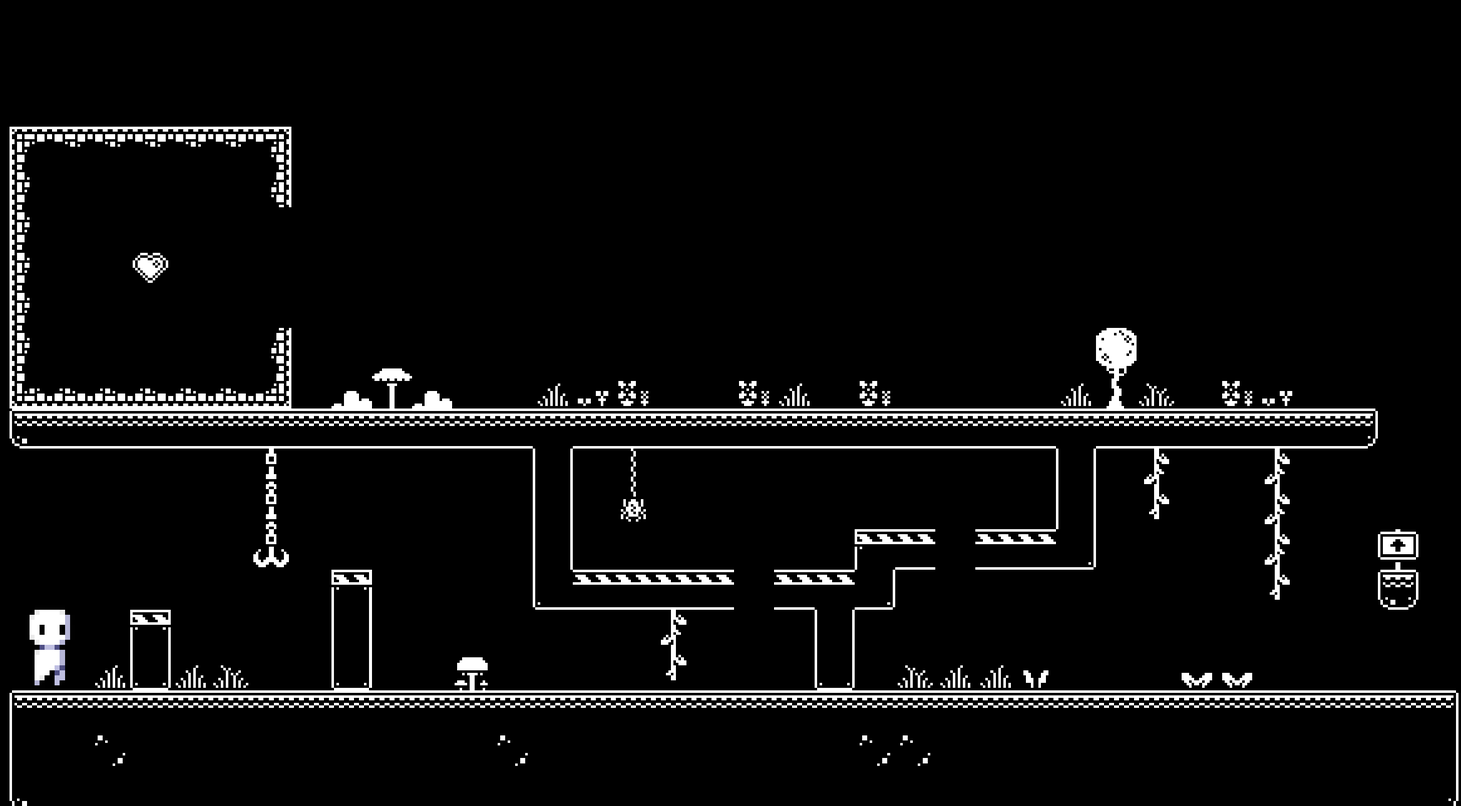
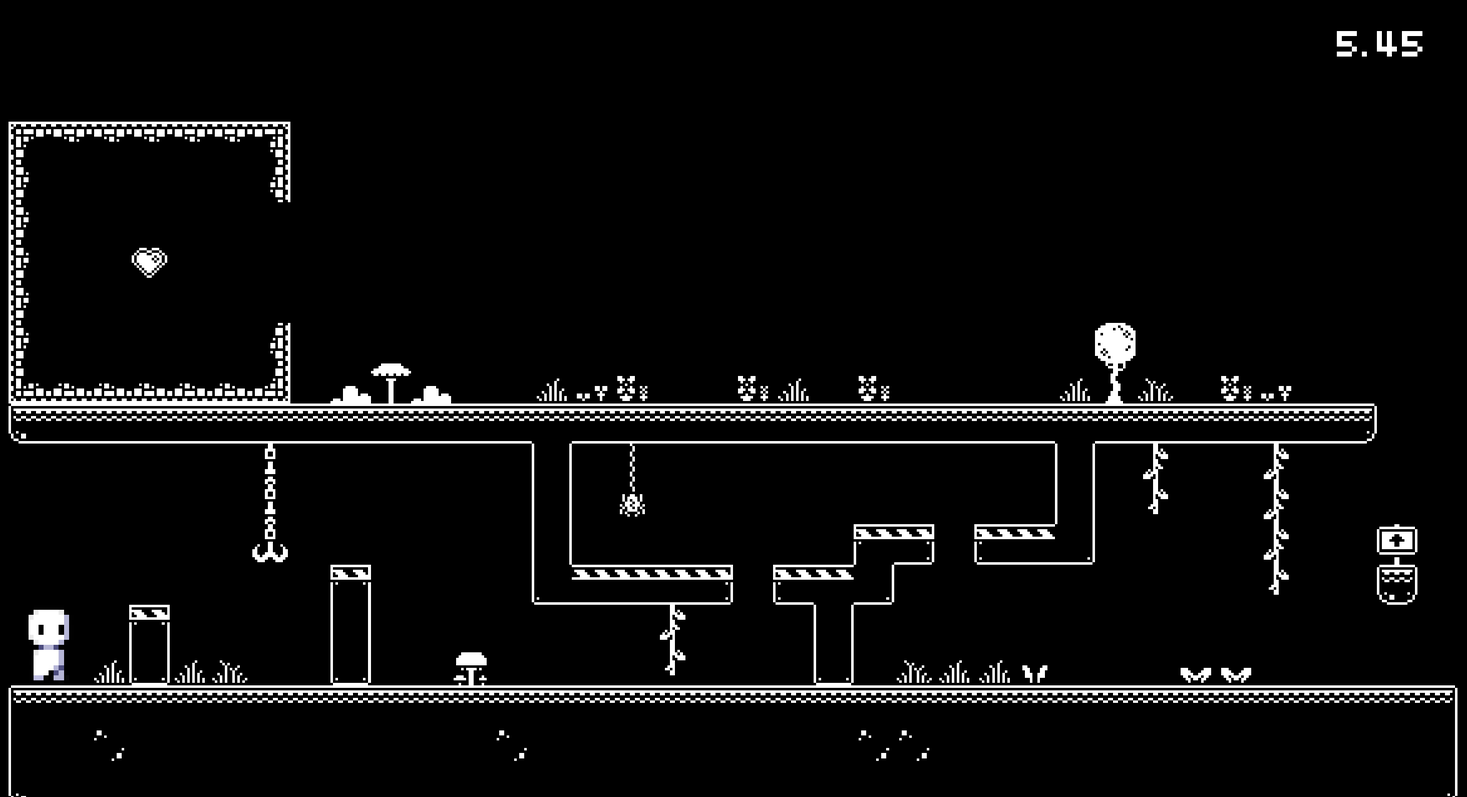
Add project document with minigame lead and audio documentation

diff --git a/ProjectDocument.md b/ProjectDocument.md
@@ -1,0 +1,318 @@
+# Green Reaper #
+
+## Summary ##
+
+**A paragraph-length pitch for your game.**
+
+## Project Resources
+
+[Web-playable version of your game.](https://itch.io/)  
+[Trailor](https://youtube.com)  
+[Press Kit](https://dopresskit.com/)  
+[Proposal: make your own copy of the linked doc.](https://docs.google.com/document/d/1qwWCpMwKJGOLQ-rRJt8G8zisCa2XHFhv6zSWars0eWM/edit?usp=sharing)  
+
+## Gameplay Explanation ##
+
+**In this section, explain how the game should be played. Treat this as a manual within a game. Explaining the button mappings and the most optimal gameplay strategy is encouraged.**
+
+
+**Add it here if you did work that should be factored into your grade but does not fit easily into the proscribed roles! Please include links to resources and descriptions of game-related material that does not fit into roles here.**
+
+# External Code, Ideas, and Structure #
+
+If your project contains code that: 1) your team did not write, and 2) does not fit cleanly into a role, please document it in this section. Please include the author of the code, where to find the code, and note which scripts, folders, or other files that comprise the external contribution. Additionally, include the license for the external code that permits you to use it. You do not need to include the license for code provided by the instruction team.
+
+If you used tutorials or other intellectual guidance to create aspects of your project, include reference to that information as well.
+
+[Godot 4 — An Overview of Control Nodes | Easy UI (Tutorial)](https://www.youtube.com/watch?v=KfydpMuTBvA)
+
+[Godot Control Node (UI) Masterclass](https://www.youtube.com/watch?v=5Hog6a0EYa0)
+
+# Main Roles #
+
+Your goal is to relate the work of your role and sub-role in terms of the content of the course. Please look at the role sections below for specific instructions for each role.
+
+Below is a template for you to highlight items of your work. These provide the evidence needed for your work to be evaluated. Try to have at least four such descriptions. They will be assessed on the quality of the underlying system and how they are linked to course content. 
+
+*Short Description* - Long description of your work item that includes how it is relevant to topics discussed in class. [link to evidence in your repository](https://github.com/dr-jam/ECS189L/edit/project-description/ProjectDocumentTemplate.md)
+
+Here is an example:  
+*Procedural Terrain* - The game's background consists of procedurally generated terrain produced with Perlin noise. The game can modify this terrain at run-time via a call to its script methods. The intent is to allow the player to modify the terrain. This system is based on the component design pattern and the procedural content generation portions of the course. [The PCG terrain generation script](https://github.com/dr-jam/CameraControlExercise/blob/513b927e87fc686fe627bf7d4ff6ff841cf34e9f/Obscura/Assets/Scripts/TerrainGenerator.cs#L6).
+
+You should replay any **bold text** with your relevant information. Liberally use the template when necessary and appropriate.
+
+## Minigame Lead (Christopher Phan)
+
+We had a shared [Google Sheets](https://docs.google.com/spreadsheets/d/12mCzZi8sv8D7Ga9r-oDEVJ3HBns_-IhfT880fozEuVY/edit?usp=sharing) that had a list of minigame ideas. Many of these changed during development. Most of the minigames from this list involved using a mouse and interacting with the game through a UI instead of through controlling a character. The minigames that I implemented kept the core functionality of the minigames in the list, but I decided to make the player interact with the game through controlling a character to make the experience feel more like a game. I felt that if a lot of the games just used the mouse and didn’t have a character, it would feel like an online quiz and wouldn’t be as fun. I didn’t get the chance to implement every game in the list, but I focused on implementing the ones that I felt would be the most engaging.
+
+### Minigame manager
+The [minigame manager](https://github.com/chris-phan/ecs179-final-project/blob/b67a9534f8ce1002b99159326979195c9940da21/green_reaper/scripts/minigame_manager.gd#L1) retrieves [all the relevant data](https://github.com/chris-phan/ecs179-final-project/blob/b67a9534f8ce1002b99159326979195c9940da21/green_reaper/scripts/minigame_manager.gd#L89) from the minigame. The UI scripts [pull](https://github.com/chris-phan/ecs179-final-project/blob/b67a9534f8ce1002b99159326979195c9940da21/green_reaper/scripts/minigame_result_ui.gd#L42) relevant data from the minigame manager and [displays](https://github.com/chris-phan/ecs179-final-project/blob/b67a9534f8ce1002b99159326979195c9940da21/green_reaper/scripts/minigame_ui.gd#L71) it dynamically. The minigame manager also handles switching between the instructions and wager screen to the actual minigame and finally from the minigame to the result screen through [signals](https://github.com/chris-phan/ecs179-final-project/blob/b67a9534f8ce1002b99159326979195c9940da21/green_reaper/scripts/minigame_manager.gd#L27). All the minigames are kept in a list and [shuffled](https://github.com/chris-phan/ecs179-final-project/blob/b67a9534f8ce1002b99159326979195c9940da21/green_reaper/scripts/minigame_manager.gd#L51). Minigames are popped off the list as they’re played. When all the minigames are played, the list is recreated and shuffled again. The minigame manager relies on the minigame to contain all the relevant information necessary for the UI to display. To do this, all minigames inherit from a Minigame superclass. Then, [polymorphism](https://github.com/chris-phan/ecs179-final-project/blob/b67a9534f8ce1002b99159326979195c9940da21/green_reaper/scripts/minigame_manager.gd#L104) is used to treat all the minigames the same.
+
+### Minigame Superclass
+The [minigame superclass](https://github.com/chris-phan/ecs179-final-project/blob/b67a9534f8ce1002b99159326979195c9940da21/green_reaper/scripts/minigame.gd#L1) provides basic functionality, shared variables that are used by the minigame manager, and child nodes that must be present. Also, it provides functions that should be overridden. Some [methods are implemented](https://github.com/chris-phan/ecs179-final-project/blob/b67a9534f8ce1002b99159326979195c9940da21/green_reaper/scripts/minigame.gd#L84) and they’re used by the derived classes by invoking [super](https://github.com/chris-phan/ecs179-final-project/blob/b67a9534f8ce1002b99159326979195c9940da21/green_reaper/scripts/time_platforming_minigame.gd#L64). This is basically the bare bones of a minigame, and all minigames inherit from this class.
+
+A minigame needs to contain the following [information](https://github.com/chris-phan/ecs179-final-project/blob/b67a9534f8ce1002b99159326979195c9940da21/green_reaper/scripts/minigame.gd#L26): a path to its scene, a name, a path to its image, instructions, tooltips for each difficulty, a list of relevant controls, and a payout multiplier. After the minigame ends, there’s a 2.5 second [timer](https://github.com/chris-phan/ecs179-final-project/blob/b67a9534f8ce1002b99159326979195c9940da21/green_reaper/scripts/minigame.gd#L39) before the results show up. This is done since we want to fully show the minigame player’s win/lose animation before switching to the result scene. Minigames also have to implement a [luck mechanic](https://github.com/chris-phan/ecs179-final-project/blob/b67a9534f8ce1002b99159326979195c9940da21/green_reaper/scripts/minigame.gd#L38) specific to its game. Players can only get [lucky once](https://github.com/chris-phan/ecs179-final-project/blob/b67a9534f8ce1002b99159326979195c9940da21/green_reaper/scripts/minigame.gd#L70) in a minigame. Luck is based on the player’s luck stat on the board. If the player has 30% luck, they have a 30% chance of being lucky in the minigame. See the individual minigames section below for a description of how luck impacts each game.
+
+### Platforming Player
+A better name for this would be minigame character since the minigames changed from being mouse oriented to all being character oriented. The character’s sprite has the following animations: fall, idle, kick, jump, land, lose, walk, and win. The jump, fall, and land animations are separated into 3 different animations to give more control over how they’re played. For example, the player doesn’t have to jump in order for the fall animation to start playing since they can walk off a ledge and start falling. Similarly, when the player transitions from the air to the ground, the land animation should play. These animations are controlled by the [animation tree’s state machine](https://github.com/chris-phan/ecs179-final-project/blob/b67a9534f8ce1002b99159326979195c9940da21/green_reaper/scripts/platforming_player.gd#L87). This was also leveraged to prevent the player from kicking while in the air. The character uses the command pattern. There’s a command for [moving left](https://github.com/chris-phan/ecs179-final-project/blob/b67a9534f8ce1002b99159326979195c9940da21/green_reaper/scripts/comands/platforming_player/platforming_player_move_left.gd#L1), [moving right](https://github.com/chris-phan/ecs179-final-project/blob/b67a9534f8ce1002b99159326979195c9940da21/green_reaper/scripts/comands/platforming_player/platforming_player_move_right.gd#L1), [jumping](https://github.com/chris-phan/ecs179-final-project/blob/b67a9534f8ce1002b99159326979195c9940da21/green_reaper/scripts/comands/platforming_player/platforming_player_jump.gd#L1), and [idling](https://github.com/chris-phan/ecs179-final-project/blob/b67a9534f8ce1002b99159326979195c9940da21/green_reaper/scripts/comands/platforming_player/platforming_player_idle.gd#L1). The majority of the player’s code is adapted from the character in the first exercise.
+
+### Instructions and Wager UI
+![Minigame UI Instructions](project_document_images/minigame_ui_instructions.png)
+The instruction and wager UI uses a tab container to have an instructions and wager tab that the user can easily navigate between. This is important since our game revolves around wagering, so it’s helpful for the player to be able to go back and reread the instructions before selecting a difficulty and starting the minigame. The instructions screen has a picture of the minigame, the relevant controls, and instructions on how to play the game.
+
+![Minigame UI Wager](project_document_images/minigame_ui_wager.png)
+On the wager page, they can select a difficulty. If you hover over one of the difficulty buttons, it will display a tooltip that tells you what constraints are imposed by the difficulty. The buttons also change color when hovered in order to make it more obvious that they are buttons and also to subtly encourage the user to keep their mouse hovered over the button. This way, they’ll be more likely to figure out that hovering over the difficulty button shows you what to expect. The wagering is in increments of 1000. The minimum wager is 0 and the maximum is how much cash they currently have. The increase and decrease buttons can be held to increase it faster. Buttons in Godot don’t have a signal for a mouse click being held down, so the [trick](https://github.com/chris-phan/ecs179-final-project/blob/b67a9534f8ce1002b99159326979195c9940da21/green_reaper/scripts/minigame_ui.gd#L175) is to have a timer that counts down as soon as a mouse down event is triggered. When that timer goes down to 0, a [second shorter timer starts](https://github.com/chris-phan/ecs179-final-project/blob/b67a9534f8ce1002b99159326979195c9940da21/green_reaper/scripts/minigame_ui.gd#L201). Every time this second timer has a timeout, the wager will be increased and the second timer gets restarted. This repeats until a [mouse up event occurs](https://github.com/chris-phan/ecs179-final-project/blob/b67a9534f8ce1002b99159326979195c9940da21/green_reaper/scripts/minigame_ui.gd#L180). This interaction of holding down the increase or decrease button is intuitive for the user and makes it easy to quickly change their wager.
+
+### Result UI
+![Minigame Result UI](project_document_images/minigame_result_ui.png)
+When the game is over, the user should be able to see the outcome. Showing everything at the same time could feel overwhelming and it also doesn’t feel as impactful. So, we have a delay between each stat which [staggers](https://github.com/chris-phan/ecs179-final-project/blob/b67a9534f8ce1002b99159326979195c9940da21/green_reaper/scripts/minigame_result_ui.gd#L94) how they’re shown.
+
+A [tween](https://github.com/chris-phan/ecs179-final-project/blob/b67a9534f8ce1002b99159326979195c9940da21/green_reaper/scripts/minigame_result_ui.gd#L108) is used to show the players total amount of cash after the minigame. Showing the money accumulating makes the gain more impactful. And similarly, seeing the money decreasing, makes the loss more painful. When the tween finishes, [a button shows up](https://github.com/chris-phan/ecs179-final-project/blob/b67a9534f8ce1002b99159326979195c9940da21/green_reaper/scripts/minigame_result_ui.gd#L124) to exit the minigame.
+
+Depending on the outcome, the minigame player has a [win and lose animation that plays](https://github.com/chris-phan/ecs179-final-project/blob/b67a9534f8ce1002b99159326979195c9940da21/green_reaper/scripts/minigame_result_ui.gd#L101). The character is shown after the player’s new cash is shown since we want the illusion of the character reacting to the outcome.
+
+### Minigame Design
+The intent behind wagering in minigames is to make the easy difficulties really easy and something that the player should be able to win each time. The payout for selecting easy is relatively low and the multiplier never exceeds 2. The hard difficulties are very challenging and the player isn’t expected to win each time, but the payouts are at least 3 times the original wager. We want to encourage taking risks, so the player only loses the amount they wager. In other words, the punishment for losing is the same, regardless of difficulty.
+
+### Time Platforming
+The Time Platforming games have the same [superclass](https://github.com/chris-phan/ecs179-final-project/blob/b67a9534f8ce1002b99159326979195c9940da21/green_reaper/scripts/time_platforming_minigame.gd#L1). The goal is to get to the heart sprite before the time runs out. The difficulties determine the amount of time you have. If the player runs out of time, they have a chance of being lucky. If they’re lucky, they [gain 3 additional seconds](https://github.com/chris-phan/ecs179-final-project/blob/b67a9534f8ce1002b99159326979195c9940da21/green_reaper/scripts/time_platforming_minigame.gd#L95). The payout is 1.25x for easy, 2x for medium, and 3x for hard. Since a timed platforming gaming is very general, we have many different versions that rely on the existing superclass framework. To [make a new platforming game](https://github.com/chris-phan/ecs179-final-project/blob/b67a9534f8ce1002b99159326979195c9940da21/green_reaper/scripts/time_platforming_minigame2.gd#L1), all you have to do is extend the superclass and change the image and scene paths. Then, you can define the difficulties. The original timed platforming game can be duplicated and the [camera can optionally be given a script](https://github.com/chris-phan/ecs179-final-project/blob/b67a9534f8ce1002b99159326979195c9940da21/green_reaper/scripts/pushbox_camera.gd#L1).
+
+#### Timed Platforming Game 1
+![Timed Platforming Game 1](green_reaper/assets/minigame_images/time_platforming_game_img.png) The challenge is getting up through a very narrow space. Camera is locked in place and captures the entire level.
+
+#### Timed Platforming Game 2
+![Timed Platforming Game 2](green_reaper/assets/minigame_images/time_platforming_game2_img.png) The challenge is doing many consecutive jumps in a row, if you mess up and fall, you get teleported back to the start. The camera is a [push box camera](https://github.com/chris-phan/ecs179-final-project/blob/b67a9534f8ce1002b99159326979195c9940da21/green_reaper/scripts/pushbox_camera.gd#L21) adapted from Exercise 2 and specialized for this level. It also lerps back to the player when they are teleported back to the start after touching a spike. This is done to make the sudden change in the player’s position less jarring.
+
+#### Timed Platforming Game 3
+![Timed Platforming Game 3](green_reaper/assets/minigame_images/time_platforming_game3_img.png) The challenge is tight platforming. There are two different routes the player can take. The route on the left is safe but slow. The route on the right is dangerous since touching a spike will cause you to go back to the start, but it is faster. The hard difficulty requires you to choose the risky path in order to win since the safe path is too slow. The stage is about getting to the bottom. You can see the immediate floor below you. Each time you clear a floor, the camera lerps downward to show the bottom of the next floor below you. The camera also lerps back to the player if they touch a spike.
+
+#### Timed Platforming Game 4
+![Timed Platforming Game 4](green_reaper/assets/minigame_images/time_platforming_game4_img.png) The challenge is performing a max distance jump. The timing on this is really tight and hard difficulty gives you 2-3 attempts. The camera is fixed in place and shows the entire level.
+
+For the 2nd and 3rd platforming games, since they are bigger than one screen width, there are arrows showing the player where to go to beat the minigame.
+
+### Memory
+![Memory Minigame](green_reaper/assets/minigame_images/memory_minigame_img.png)
+The [memory minigame](https://github.com/chris-phan/ecs179-final-project/blob/b67a9534f8ce1002b99159326979195c9940da21/green_reaper/scripts/memory_minigame.gd#L1) shows the text of a color after each round. The player has to remember the previous colors and repeat the sequence in order. The added difficulty is that the text stays on screen for less than a second. And the font color of the text might not be the same as what the text is saying. For example, the player might be shown “BLUE” with a red font color. The difficulty changes how many rounds the player has to beat. The payout is 1.5x for easy, 2x for medium, and 5x for hard. There are 7 rounds for easy, 10 rounds for medium, and 15 rounds for hard.
+
+### Internal Timer
+![Internal Timer Minigame](green_reaper/assets/minigame_images/internal_timer_minigame_img.png)
+The [internal timer minigame](https://github.com/chris-phan/ecs179-final-project/blob/b67a9534f8ce1002b99159326979195c9940da21/green_reaper/scripts/internal_timer_minigame.gd#L1) tests the player’s ability to keep track of time in their head. There’s a timer display that counts down. It starts at 10 seconds and counts down. When it reaches 7.5 seconds, the display disappears and the user has to count in their head. They have to stop the timer as close to 0 seconds as possible. The difficulty determines how much leeway the player is given over or under 0 seconds. For example, the Easy difficulty gives you 0.75 seconds above or below 0 seconds. If you stop the timer any time in between 0.75 to -0.75 seconds, you win. If the player is lucky, the timer display doesn’t disappear, so the player can see the timer the whole time. The tolerance is 0.5 seconds for medium and 0.15 seconds for hard. We learned that 0.15 seconds is perceived as instant for humans, but since there’s 0.15 seconds of leeway on either side of 0, there’s really a 0.3 second window, which makes it a little easier. The payout is 1.25x for easy, 2x for medium, and 3x for hard.
+
+### Observation
+![Observation Minigame](green_reaper/assets/minigame_images/observation_minigame_img.png)
+The [observation minigame](https://github.com/chris-phan/ecs179-final-project/blob/b67a9534f8ce1002b99159326979195c9940da21/green_reaper/scripts/observation_minigame.gd#L1) is about counting the various moving objects. The objects move around for 10 seconds and then they disappear. The player then has to answer a question about how many of a particular object they saw. Each round, a new type of object is added and the minimum number of objects increases. The question can be about any of the objects in the round, so the player has to keep track of the number of each object. The difficulty determines how many rounds there are. The maximum difficulty, hard, has 3 rounds, and medium and easy have 2 rounds and 1 round respectively. The payout is 1.5x for easy, 2.5x for medium, and 4x for hard.
+
+
+
+
+## User Interface and Input
+
+**Describe your user interface and how it relates to gameplay. This can be done via the template.**
+**Describe the default input configuration.**
+
+**Add an entry for each platform or input style your project supports.**
+
+## Movement/Physics
+
+**Describe the basics of movement and physics in your game. Is it the standard physics model? What did you change or modify? Did you make your movement scripts that do not use the physics system?**
+
+## Animation and Visuals
+
+**List your assets, including their sources and licenses.**
+
+**Describe how your work intersects with game feel, graphic design, and world-building. Include your visual style guide if one exists.**
+
+## Game Logic
+
+**Document the game states and game data you managed and the design patterns you used to complete your task.**
+
+# Sub-Roles
+
+## Audio (Christopher Phan)
+The main source of audio comes from the [SFXPlayer class](https://github.com/chris-phan/ecs179-final-project/blob/b67a9534f8ce1002b99159326979195c9940da21/green_reaper/scripts/sfx_player.gd#L1). This is a singleton and is autoloaded. It contains sounds for game actions and the background music. Each sound is attached to an AudioStreamPlayer2D and has its volume tuned to work well with all the other sounds. Each sound is also added to a bus. There’s a separate sound effect and background music bus. This makes it easy to adjust the volume for all the sounds.
+
+### Sound effects
+Some sounds aren’t played through the SFXPlayer since it was easier to time the sound with an animation inside an AnimationPlayer. The PlatformingPlayer’s kick and land sound are played through an AnimationPlayer.
+
+**Attributions**:
+- [Kick sound](https://pixabay.com/sound-effects/soccer-ball-kick-37625/)
+- [Land sound](https://pixabay.com/sound-effects/jump-landing-30946/)
+- [License](https://pixabay.com/service/license-summary/)
+
+Background music tracks are imported to allow looping, so they automatically repeat whenever they end.
+
+### The following sounds use the SFXPlayer:
+#### PlatformingPlayer’s Walk Sound
+Called by the minigame player’s move left and right commands when they’re executed.
+
+**Attributions**:
+- [Walk sound](https://pixabay.com/sound-effects/walking-snow-31224/)
+- [License](https://pixabay.com/service/license-summary/)
+
+#### Button Click Sound
+Plays for all the button clicks in the game.
+
+**Attributions**:
+- [Button Click](https://pixabay.com/sound-effects/button-press-40018/)
+- [License](https://pixabay.com/service/license-summary/)
+
+#### Number Increase and Decrease Sound
+Since it plays for each increase and decrease, if there were only one AudioStreamPlayer2D and were played multiple times in quick succession, it would try to repeat the first few milliseconds of the sound. To get around this, a new [AudioSteamPlayer2D is dynamically created](https://github.com/chris-phan/ecs179-final-project/blob/b67a9534f8ce1002b99159326979195c9940da21/green_reaper/scripts/sfx_player.gd#L47) each time the sound is played. Then, this is added to the scene and is [removed](https://github.com/chris-phan/ecs179-final-project/blob/b67a9534f8ce1002b99159326979195c9940da21/green_reaper/scripts/sfx_player.gd#L50) using `queue_free` after the sound is done playing. The actual sound is a page flip, and is trimmed to only include a small part of the flip.
+
+**Attributions**:
+- [Number Increase/Decrease Sound](https://pixabay.com/sound-effects/book-page-flip-28603/)
+- [License](https://pixabay.com/service/license-summary/)
+
+#### Dice Roll Sound
+The same trick is used for the [dice roll sound](https://github.com/chris-phan/ecs179-final-project/blob/b67a9534f8ce1002b99159326979195c9940da21/green_reaper/scripts/sfx_player.gd#L138) to handle quickly playing consecutive sounds. The sound is taken from a cork pop, and is trimmed to only include a small part of the pop.
+
+**Attributions**:
+- [Dice Roll](https://pixabay.com/sound-effects/cork-pop-35952/)
+- [License](https://pixabay.com/service/license-summary/)
+
+#### Countdown Sound
+There are 2 sounds that are extracted from the original audio file, which contains many different countdown sounds. The first sound is for the countdown from 3 to 1. The second sound is a higher pitch and is used for the final “GO”.
+
+**Attributions**:
+- [Countdown](https://pixabay.com/sound-effects/countdown-beep-104007/)
+- [License](https://pixabay.com/service/license-summary/)
+
+#### Show Result
+This uses a trimmed camera shutter sound and plays in a minigame result or event result screen.
+
+**Attributions**:
+- [Show Result](https://pixabay.com/sound-effects/film-camera-shutter-1-sec-272601/)
+- [License](https://pixabay.com/service/license-summary/)
+
+#### Heartbeat
+This sound plays during the internal timer minigame after the timer is hidden from the player. Where in the audio file the sound starts playing and the `pitch_scale` is [randomized](https://github.com/chris-phan/ecs179-final-project/blob/b67a9534f8ce1002b99159326979195c9940da21/green_reaper/scripts/sfx_player.gd#L69) in order to make it harder to use the heartbeats as an audio cue for the internal timer game. This sound also starts playing in the timed platforming games when there are less than 3 seconds left.
+
+**Attributions**:
+- [Heartbeat](https://pixabay.com/sound-effects/heartbeat-02-225103/)
+- [License](https://pixabay.com/service/license-summary/)
+
+#### Correct Observation
+Used in the observation minigame to signify that the answer was correct. Also used in the memory game to signify the next round.
+
+**Attributions**:
+- [Correct Observation](https://pixabay.com/sound-effects/training-program-correct1-105916/)
+- [License](https://pixabay.com/service/license-summary/)
+
+#### Correct Memory
+Used in memory minigame to signify that the correct color in the sequence was picked. Edited and taken from an audio file with lots of menu select sounds.
+
+**Attributions**:
+- [Correct Memory](https://pixabay.com/sound-effects/menu-select-button-182476/)
+- [License](https://pixabay.com/service/license-summary/)
+
+#### Lucky
+Plays in all the minigames when the player is lucky.
+
+**Attributions**:
+- [Lucky](https://pixabay.com/sound-effects/retro-coin-1-236677/)
+- [License](https://pixabay.com/service/license-summary/)
+
+
+#### Board Positive
+Plays on the board whenever the player gets money or luck from landing on a space.
+
+**Attributions**:
+- [Board Positive](https://pixabay.com/sound-effects/arcade-ui-18-229517/)
+- [License](https://pixabay.com/service/license-summary/)
+
+#### Board Negative
+Plays on the board whenever the player loses money or luck from landing on a space.
+
+**Attributions**:
+- [Board Negative](https://pixabay.com/sound-effects/classic-game-action-negative-3-224421/)
+- [License](https://pixabay.com/service/license-summary/)
+
+#### Board Move:
+Plays on the board whenever the player goes past or lands on a space.
+
+**Attributions**:
+- [Board Move](https://pixabay.com/sound-effects/pop-268648/)
+- [License](https://pixabay.com/service/license-summary/)
+
+### Background Music:
+There are 4 different tracks for the board. Depending on how much cash the player currently has, the background music changes. The first track is gloomy and depressing and then they progressively become more happy. This is done with respect to the narrative since the player is getting closer to escaping the Green Reaper and getting a second chance at life. The changes in music also align with the checkpoints’ cash thresholds.
+
+All the background music tracks come from Youtube Audio Library. The license states:
+<blockquote>
+You can use this audio track in any of your videos, including videos that you monetize. No attribution is required.
+<br><br>
+YouTube may credit the artist and link the Audio Library from your video.
+<br><br>
+You may not make available, distribute or perform the music files from this library separately from videos and other content into which you have incorporated these music files (e.g., standalone distribution of these files is not permitted).
+</blockquote>
+
+### Board Tracks
+#### Orbit - Corbyn Kites
+Plays when the player has less than 250,000 points.
+
+**Attribution**:
+[Orbit](https://www.youtube.com/watch?v=eX4AB8P0BfQ)
+
+
+#### Called Upon - Silent Partner
+Plays when the player has between 250,000 to 499,999 points.
+
+**Attribution**: [Called Upon](https://www.youtube.com/watch?v=viRJOYHF7b4)
+
+
+#### Icelandic Arpeggios - DivKid
+Plays when the player has between 500,000 to 749,999 points.
+
+**Attribution**: [Icelandic Arpeggios](https://www.youtube.com/watch?v=pxoq8jEGbBo)
+
+
+#### Clean Living - Everet Almond
+Plays when the player has 750,000 points or more.
+
+**Attribution**: [Clean Living](https://www.youtube.com/watch?v=ZkTDCOmT-qw)
+
+### Events
+When the player enters an event, the background music from the board continues playing since they’re still considered to be on the board. Once they go into a minigame, the music changes to convey a transition.
+
+### Minigame Tracks
+In the narrative, the minigames take place in the Green Reaper’s special dimension where everything is in black and white. I wanted it to feel peaceful and calm to not distract the player. I also thought that it would be interesting to juxtapose the intensity of wagering cash which is essentially the equivalent of your in-game life on difficult minigames while a chill song is playing in the background as if this happens all the time. All the minigames use the same track. When the minigame ends, depending on the outcome, a track is selected. If the player wins, a happy song is played, and if the player loses, a sad song is played. This carries into the result screen to make the transition feel seamless.
+
+#### Sunday Drive - Silent Partner
+Plays during all minigames.
+
+**Attribution**: [Sunday Drive](https://www.youtube.com/watch?v=T8Ay7Xz0mEQ)
+
+
+#### Every Step - Silent Partner
+Plays when the player loses the minigame.
+
+**Attribution**: [Every Step](https://www.youtube.com/watch?v=_WfmldfpkKE)
+
+
+#### Shadowing - Corbyn Kites
+Plays when the player wins the minigame.
+
+**Attribution**: [Shadowing](https://www.youtube.com/watch?v=aqsIy0YRZXA)
+
+
+
+## Gameplay Testing
+
+**Add a link to the full results of your gameplay tests.**
+
+**Summarize the key findings from your gameplay tests.**
+
+## Narrative Design
+
+**Document how the narrative is present in the game via assets, gameplay systems, and gameplay.** 
+
+## Press Kit and Trailer
+
+**Include links to your presskit materials and trailer.**
+
+**Describe how you showcased your work. How did you choose what to show in the trailer? Why did you choose your screenshots?**
+
+## Game Feel and Polish
+
+**Document what you added to and how you tweaked your game to improve its game feel.**
